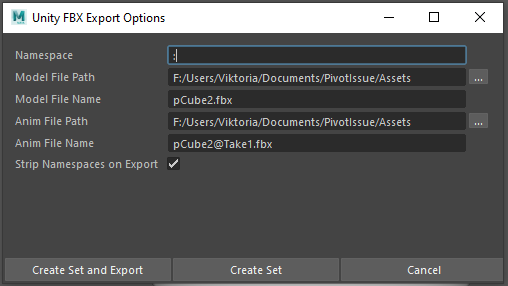
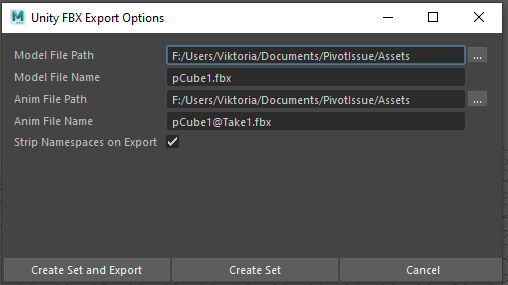
update for removed namespace option + code review fix
- fix capitalization on file name

diff --git a/com.unity.formats.fbx/Documentation~/integration.md b/com.unity.formats.fbx/Documentation~/integration.md
@@ -149,7 +149,6 @@ After selecting one of the above menu items, the following dialog will appear to
 
 | Property:                     | Function:                                                    |
 | :---------------------------- | :----------------------------------------------------------- |
-| __Namespace__              | Select the namespace to add all the objects in the set to. Will not modify namespace of objects already in the desired namespace. |
 | __Model File Path__        | The file path to export to when calling __File__ > __Unity__ > __Export__ and __File__ > __Unity__ > __Export Model Only__. |
 | __Model File Name__        | The file name to export to when calling __File__ > __Unity__ > __Export__ and __File__ > __Unity__ > __Export Model Only__. |
 | __Anim File Path__         | The file path to export to when calling __File__ > __Unity__ > __Export Animation Only__. |
@@ -166,7 +165,7 @@ on the set. In order to do so, select the set, go to the Attribute Editor, and m
 
 > **NOTE:** If Arnold is installed, the attributes may appear in the Attribute Editor under __Arnold__ > __Extra Attributes__
 
-![](images/FBXExporter_MayaExportSetAttributes.png)
+![](images/FBXExporter_MayaExportSetAttributes.PNG)
 
 | Property:                     | Function:                                                    |
 | :---------------------------- | :----------------------------------------------------------- |
